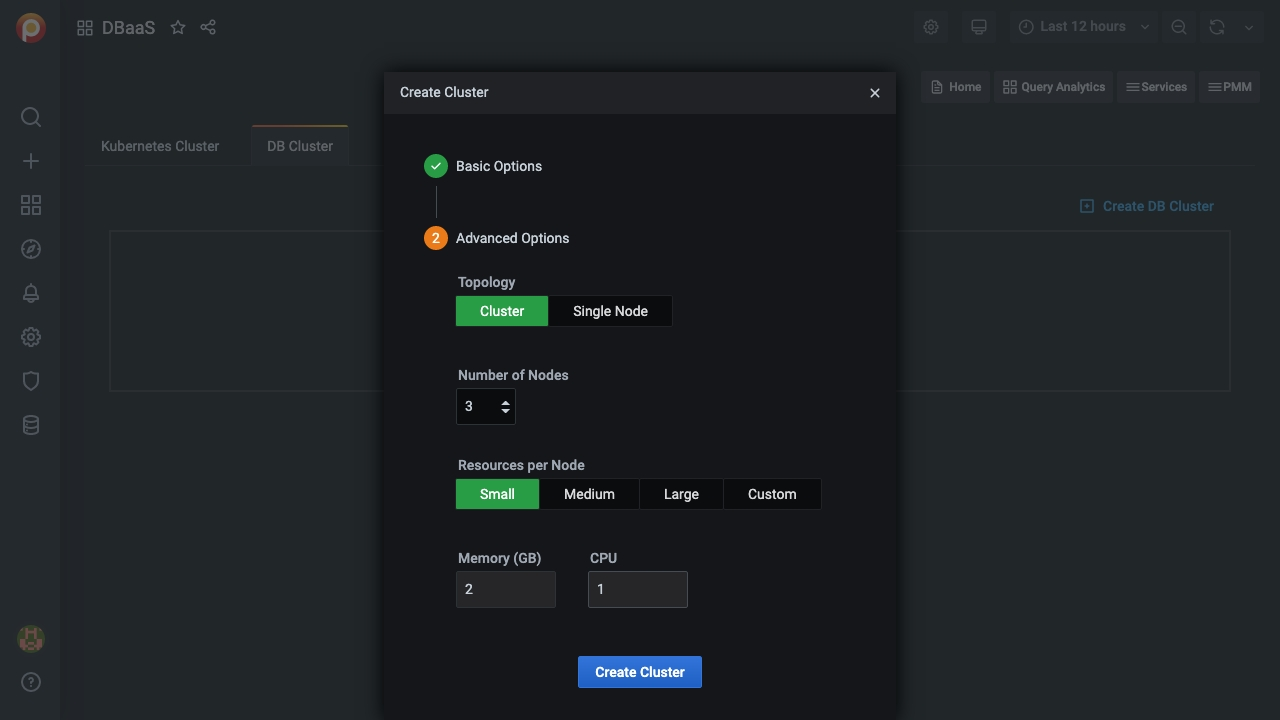
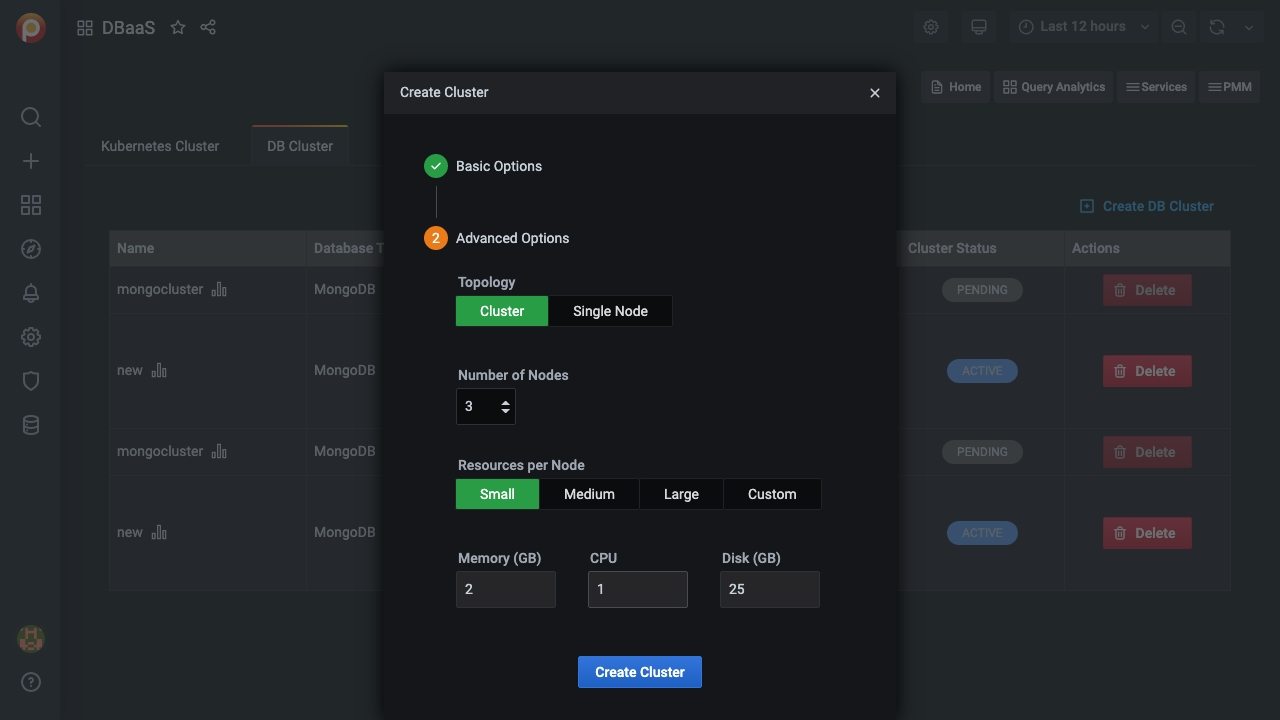
PMM-6855 New image and mention of Disk size

diff --git a/docs/platform/dbaas.md b/docs/platform/dbaas.md
@@ -61,9 +61,13 @@ To access it, select *PMM > PMM DBaaS*, or click the database icon (*DBaas*) in 
 
     2. Select the number of nodes. (The lower limit is 3.)
 
-    3. Select a preset for *Resources per Node*. *Small*, *Medium* and *Large* are fixed preset values for *Memory* and *CPU*. Values for the *Custom* preset can be edited.
+    3. Select a preset for *Resources per Node*.
 
-         ![](../_images/PMM_DBaaS_DB_Cluster_Advanced_Options.jpg)
+        *Small*, *Medium* and *Large* are fixed preset values for *Memory*, *CPU*, and *Disk*.
+
+        Values for the *Custom* preset can be edited.
+
+        ![](../_images/PMM_DBaaS_DB_Cluster_Advanced_Options.jpg)
 
 5. When both *Basic Options* and *Advanced Options* section icons are green, the *Create Cluster* button becomes active. (If it is inactive, check the values for fields in sections whose icon is red.)
 
